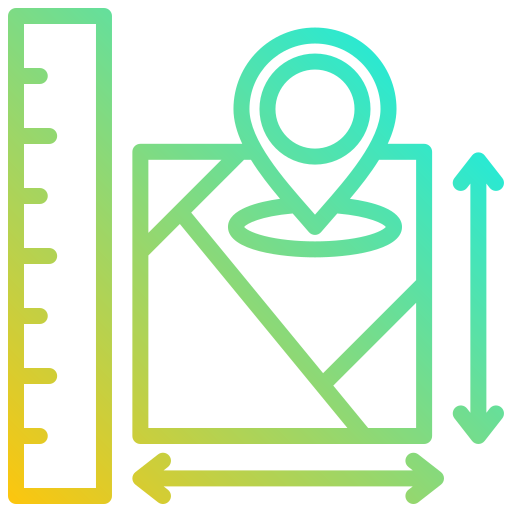
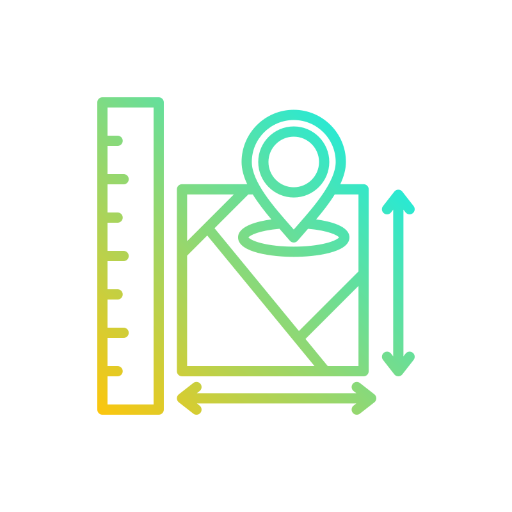
feat: Update version code and version name, change APK download link to Play Store

diff --git a/docs/index.html b/docs/index.html
@@ -474,7 +474,7 @@
             <p style="font-size: 1.1rem; opacity: 0.9;">Calculate land area with precision for surveying, real estate, farming, and more</p>
             <div class="cta-buttons">
                 <a href="https://github.com/zamansheikh/plotcalc" class="btn btn-primary">View on GitHub</a>
-                <a href="https://github.com/zamansheikh/plotcalc/releases" class="btn btn-secondary">Download APK</a>
+                <a href="https://play.google.com/store/apps/details?id=com.programmernexus.plotcalc" class="btn btn-secondary">Download APP</a>
             </div>
         </div>
     </section>
